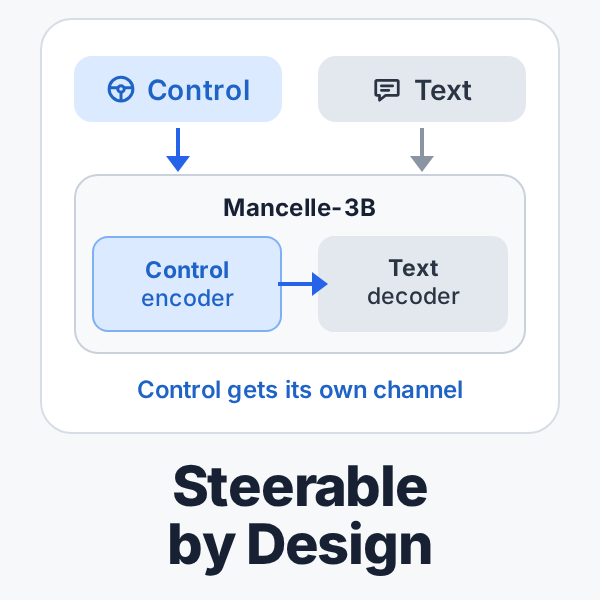
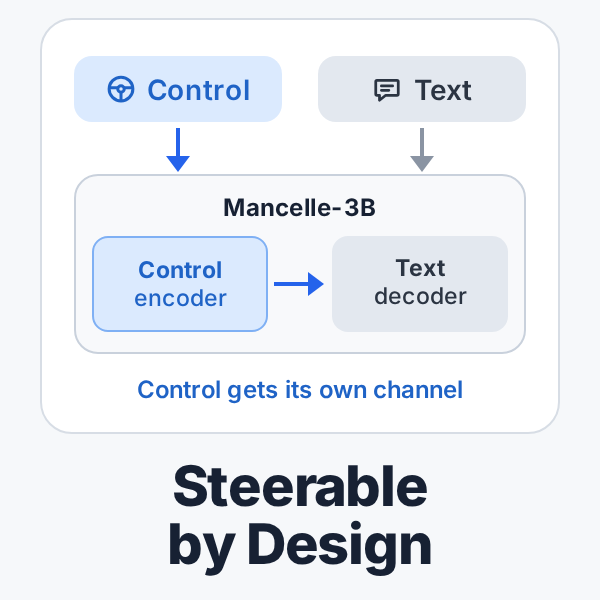
Use the square thumbnail for og:image; fix arrow overlap in thumbnails
WeChat crops og:image to a square, so og:image now points to share_square.png (600x600);
twitter:image keeps the wide 1200x630 card. Both thumbnails: wider gap so the encoder-to-decoder arrow no longer touches the decoder box.

diff --git a/index.html b/index.html
@@ -16,10 +16,11 @@
   <meta property="og:title" content="Steerable by Design: Conditional Pretraining for Robust Control of Language Models">
   <meta property="og:description" content="We pretrain language models with a separate control channel for semantic features. Steering through it is strong, keeps replies fluent, and holds up under prompt attacks.">
   <meta property="og:url" content="https://mancelle.com/">
-  <meta property="og:image" content="https://mancelle.com/static/images/social_preview.png">
+  <!-- og:image is square: WeChat and other apps crop link thumbnails to a square; Twitter reads twitter:image (wide) -->
+  <meta property="og:image" content="https://mancelle.com/static/images/share_square.png">
   <meta property="og:image:alt" content="Steerable by Design: control and text enter Mancelle-3B through separate channels; a control encoder feeds the text decoder one way.">
-  <meta property="og:image:width" content="1200">
-  <meta property="og:image:height" content="630">
+  <meta property="og:image:width" content="600">
+  <meta property="og:image:height" content="600">
   <meta name="twitter:card" content="summary_large_image">
   <meta name="twitter:title" content="Steerable by Design: Conditional Pretraining for Robust Control of Language Models">
   <meta name="twitter:description" content="We pretrain language models with a separate control channel for semantic features. Steering through it is strong, keeps replies fluent, and holds up under prompt attacks.">

diff --git a/zh.html b/zh.html
@@ -16,10 +16,11 @@
   <meta property="og:title" content="Steerable by Design: Conditional Pretraining for Robust Control of Language Models">
   <meta property="og:description" content="我们预训练了一个带独立控制通道的语言模型。通过这条通道做 steering，效果强、回复流畅，而且扛得住 prompt 攻击。">
   <meta property="og:url" content="https://mancelle.com/zh">
-  <meta property="og:image" content="https://mancelle.com/static/images/social_preview.png">
+  <!-- og:image is square: WeChat and other apps crop link thumbnails to a square; Twitter reads twitter:image (wide) -->
+  <meta property="og:image" content="https://mancelle.com/static/images/share_square.png">
   <meta property="og:image:alt" content="Steerable by Design: control and text enter Mancelle-3B through separate channels; a control encoder feeds the text decoder one way.">
-  <meta property="og:image:width" content="1200">
-  <meta property="og:image:height" content="630">
+  <meta property="og:image:width" content="600">
+  <meta property="og:image:height" content="600">
   <meta name="twitter:card" content="summary_large_image">
   <meta name="twitter:title" content="Steerable by Design: Conditional Pretraining for Robust Control of Language Models">
   <meta name="twitter:description" content="我们预训练了一个带独立控制通道的语言模型。通过这条通道做 steering，效果强、回复流畅，而且扛得住 prompt 攻击。">
